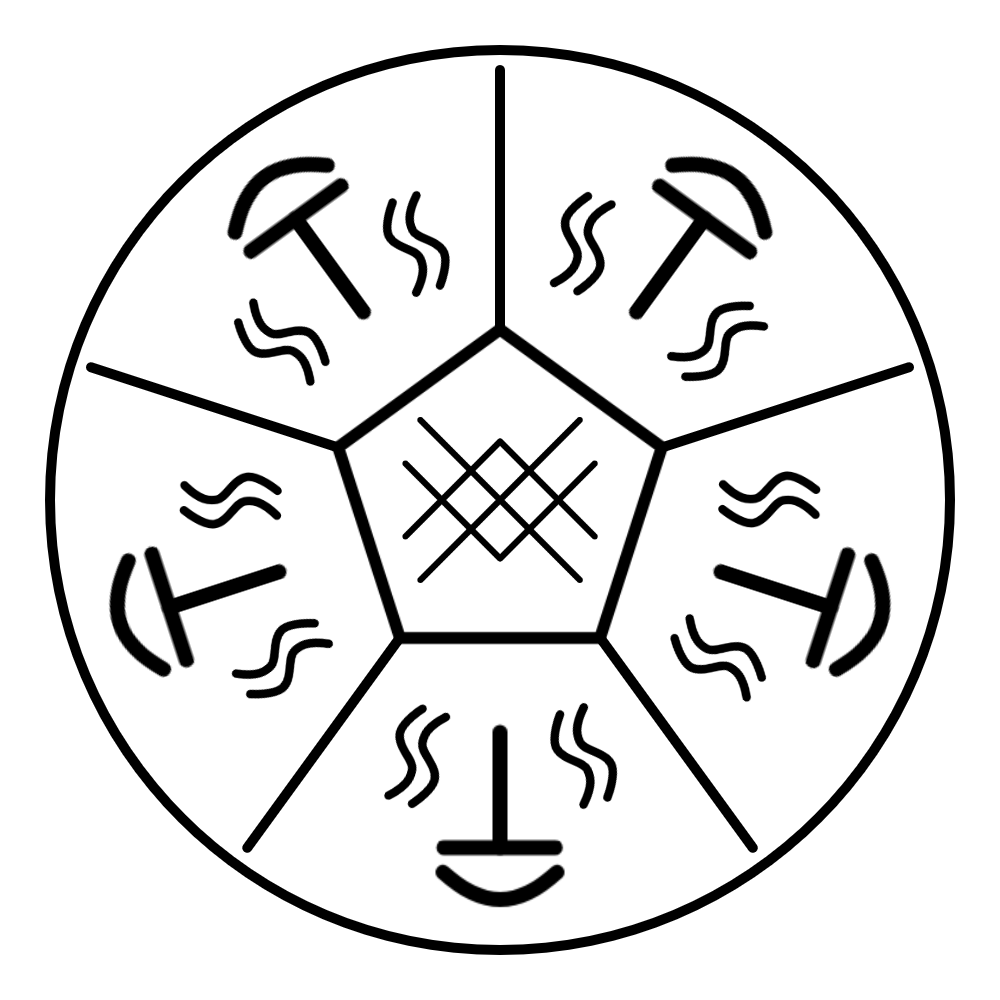
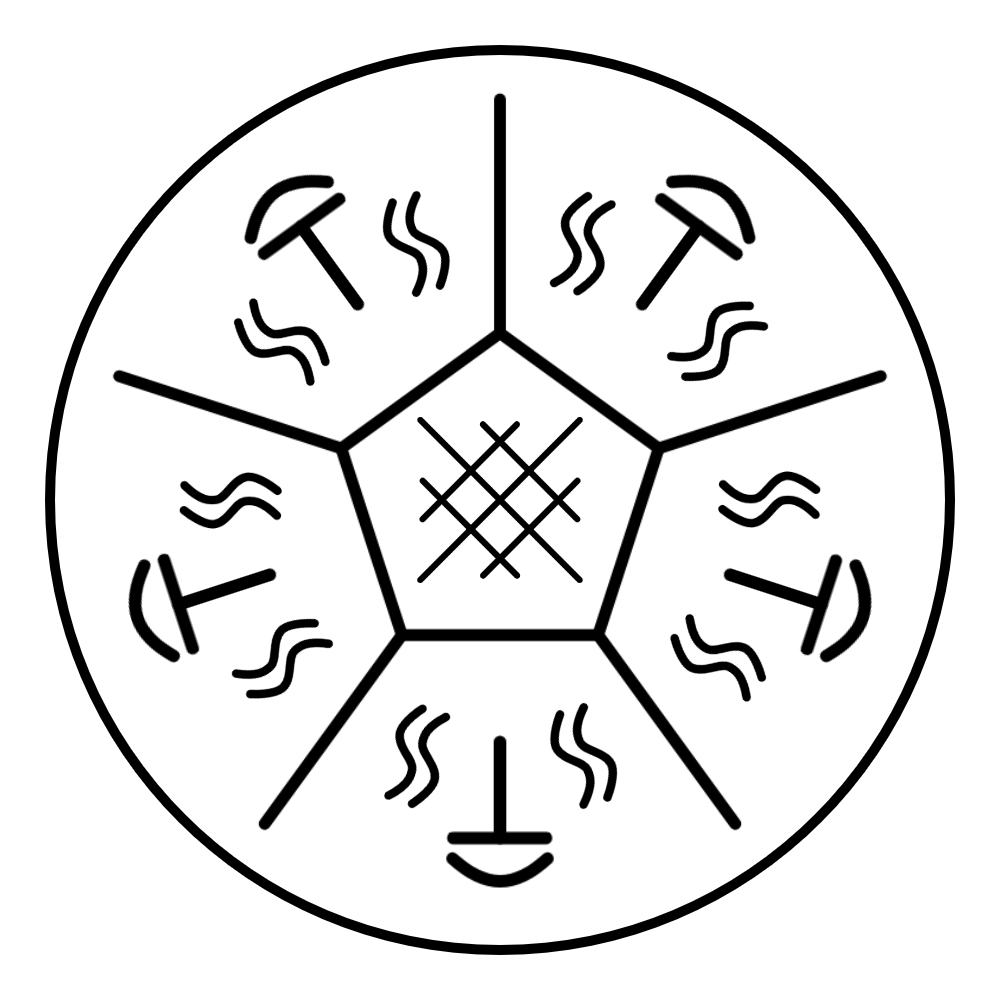
Updated examples

diff --git a/README.md b/README.md
@@ -30,7 +30,7 @@ You can click the links below to instantly open the spell into the editor:
 
 <img src="examples/Sylph%20Shoes.png" width="500" />
 
-[Sylph Shoes](https://wha-spell-maker.daviamsilva.dev?spell=XVLBihsxDP0VMacWhqQs7CW30ksL7SktOTRLUGaUsVivPNjKDOmSf6_kSbdNGfDYftLTk_xeG8EXajbN9hLHANuQqDRt01PpMo_KSQz7HghKxYvjUAgjdEkUWQogdCSa7Wpm6eEsPeVTSgqFB47wDmHCzCgK6QRqVDWsgu-hnHNOntLD8QIogFEpCyrLACOqHzzPqk2UB5KOLKqHSBMruj5nkrKCbYIT5hZYIWCBJPECRyLDffG4fzpw8RlrfwXmwF2wwjHNVd-5UAY1uphQAY9pono_VKW1_MnI50BCk4capnO6UWO2Uzp3wVrSNJCheQV1hD42LnDkQp1S35oqMrHx5PIITURJkdpawdkr88JaGd_4FmB5hZcxknpdl9YpT2indmnHh3jf0WW1l71s0zl3tIEvNviRbLHH2bFahc_W8UelyJaw42feS1Ady2a9nh0PaEOv6Mp-ltszroTU0GdeVw8dqocOW1NnRnKRpdn8fG2yiVl2N8d9M_c01yeLcSvcQfXmsHOf_PhjJyfjX4Y-Pn64Zcn_SXL49NcnzbW9x76-eca4crptNw8P1yf7fgM)
+[Sylph Shoes](https://wha-spell-maker.daviamsilva.dev?spell=XVJBjtswDPwKoVMLGEmxwF58K3ppse3JLXJogoCRaYtYhTQkOka6yN8Lyem224shazjDITUvTvBMrnXdNU4BuqCUXeNwtqDJte4Jz3om6AInDHhG17iesk88Gau41n0PBLlyc-FCJozgVQxZMiB4EksYYWHpYZae0qBqkHnkCO8QLpgYxUAHsEBrWQXfQ55T0kLp4XQFFMBolASNZYQJrfwUnle5UBpJPAFKD5EubFj8FSXJG-gUBkwNsEHADCrxCicigVw-pe6fCYr5hHW-DEtgHwBj1KX6mzMlMIUhKhrgSS9U78fqtLYf4hWWQEKXUhoIbNG7NCYC09kH6sF0JAuUNlBXWNbGGU6cyRv1DagQBIxDsUfoA2SN1NQORb0qr6pV8VVvBdZXOE-RrPQt1rzxBY1ys45Tlvh2outmL3vpdE6eWvgiPU0kPYnBjs0H-IwGH40iU4IdP_NegtmU2-12KXhAwxXdGEWaqGfcCNl24Wfe1nwda76OHWF0jSsms2t_vrjEMq6nexq_IYu7HRpXo_AGqjfHXcnJjz9xKmL8i1z7-PjhzpL_SXL89Dcn7ta8xb6-ZsY1Lun92D483A63w-03)
 
 <br />
 
@@ -42,12 +42,12 @@ You can click the links below to instantly open the spell into the editor:
 
 <img src="examples/Washing%20Machine.png" width="500" />
 
-[Washing Machine](https://wha-spell-maker.daviamsilva.dev?spell=7VbRbuM2EPwVwk8t4Ma2ZDtnvwUG0j7kWjR3QAo0gUFLK4tniTRIyop7uH_vkFJkybETF3ePBQI4onZmh7PLpb72JM-pN-89cJMKuWYfeYRf6vV7MZlIi60VSuL9rdDG9plNianCks6VscxsKctYzjdkGMdTSlpEPGOa1kAxvlI78pAqsMR7YiUHnJUic3FGxHTFPqfCMPz5UOip4_8UiaY9M6kqDVuoSDEhWZTyrSOYhA5HWJJtNX1kEVHKIi7ZiliiChk72I5vlWarYrXKyPh9SJZAg0uKzFwThyab1vISrXIvhwvdZxHeWucOrxmuHuWj_J2erQP6OFsqCIAYF-aVIIuSxKJMRZtSGFBBiV-BJuRoXlyx-8ovI9bSsK0S0ieD6kYGxWt4HCmZoDi1pXivEkYoWO2XVfUbHhGLhabIZvtDFXJv2J6VSm8QuyasaQdKssK6TTswVOHHGeKc6zOeZap0ahyBCy7RKIx2JLO9d-GOm4MLae1TZQDkJY0oFNrUAgqYEWllTAp3XUDOpUgIPCXXOWrwUyJcoxAaS1LMVnumeSx49jM8cUSe0Req7h1YmsVwzhKsg2Q0jVVbH9YufO2TdxVexgQ2qK1KvhMciyrDSp8Zr9r3nmPWlHPYXUi83UBRU5eKEPUUmX-u8yRK58bbs3CtU-2hGCxS4OBQdJvBsdGjTK3dmvlgUJbllaY4FvYqUvlADx6EjdLfuL2xlAnSA6zm2JsZjPSXoNw8D8rqvC7z6rwuvZDll8LYpYWzy70q9LIu5lJInGdDPDO9-d9fX478R16t48TicTrs9zQYOyH-1COmJLFObW8-6ffUllyPfxL_IOC6eb6Ra8cSTEbf-g38EzmXgXflK8AcuiwNWSsSVdTtwOD6TOAt9mXTVuTow7lIkXQDh53AJ-xcrEXXEr-yfHD94JzxexxNhnWwPI6Vy1-5O0SHWJfjJeEM7vDcHXbspyXMAxcqK3J5GjgaDw_I6Wukyi7ABVhXllfj2-3hB9CERyzw6gYj33d7w3V9EdXsNVXX9plDVk01azEGQYsxPN7UHe1EnaHZWnAgCq47TJMWU1vb9JVZ1YDubLGm9O3XUI5blNO3nLuYMgy_i7JRNvwxNLNLaS6tZzi6vArvVLdLe75N3pLW6ZBx27Txeyd41EEGLeTbdv-hV6fP4XgYniGZ-omEu4g6E-mOkqNh7b8lqpjn3vyXcTUG_L84gE8tKfce8wb4gK2gbXCduL5JXElw8xuyfyFR-GHavlhe-EfHV0lrob5LRrPw_Sl9fjQvXr4wGnfDYbdZzg7ne_-1cRJX_X9qop2YGudppmcndfD6IOEWdh_k7fFwbqaeKumpsnxHVYbB_1X5z1V5-vYv) by [u/ChromaticFlare1](https://www.reddit.com/r/WitchHatAtelier/comments/1rj2wkx/washing_machine_spell_just_toss_your_clothes_in)
+[Washing Machine](https://wha-spell-maker.daviamsilva.dev?spell=7VZNb-M2EP0rA55aQBt_O2vdggBpD9kW3V0gBZqFQVMjc9YUaZBUFHeR_16QkmU5jhID2WNvtvTe4_DN8FE_mOYFspTdcSdJr-ETF5I0soTx0ktjWcqupTUF9yRuFLfhTYZOWNp6Mpql7Ias8wl4iWBKj7YwzoPbolJQ8A064OC2Ei0JrsDimowGvjIPGCk1sJJoESru0UJFKuAcZXgBXyU5IFdDebHH_0W5xR04aSoH10YYIA1C8m0QmE0CD4G07laTQCVJSBBcwwohN6XOAu2Bb42FVblaKXRxHxpyUiosSg64RQ4VedmUl1tTxHI42QSERe6Db7xRuLjX9_oPfPSBGHG-MuC2pHWAxUpcAkYjCGXEpiKHwHVWPzGl9mjbFxfwufbL0Vo72BrScTHShzIwW6MDYXROem8paTA5IBey8cub5g0XCBlZFF7tDl0oomE7qIzdgDdr9BJtIOWq9GHTgSyU8TK00wbnEuBKmSpUEwQCuOJOAj6gVrvowi13Bxdk41NtAJg8b4uiDF1TQOkQhDXOSU6xgIJrytF5qLgtvIRfcgqDgnyDGjNY7cDyjLj6FUgHoagYG9XMjjClymBrPGpPXKkdOG-2EdZtfONTdFUYnaF2odq65Q_EQRijSK8TcLHqOHtB2WLBSUOpFekNZoe-1IKl9qTi_2ad3NjCRXuuw-jUeygHx2dsdK-l91uXDgZVVV1YzDLyF8IUAzu4Iy_k79xfeVSEdiBMUaD2bjCy38fV5nEQ2kB6vSzqk7yMhSy_l84vvXFuuTOlXTbNXJJmCXPIlWPpPz_2YfCJ188FV8jS-TBhlvT6CBJPPUtYhbSWnqWzhJkthhn_Qv8iSy_b_1d6HVTGs9FT0tK_YHCZJSy0r3QsnYRVWrEO8qsk2wWOL3uAN6a0XnaQo499SMq9hM_xRQc-HPZvZzwanmzocniieYv5eyQXw6dvCXO0puN-xCfLuzCMoS2RPprtwfo5Vi9_4-EEH7Chjn1Ri8uE8SIkDUvHnR1E4rVRZaFfJo6mwwNzfso06gzeOGHWeF7fHWEPP0Fm8kyF1PIKLcWj1mpdniW1OJU6tn0RmPtudaZy3FGcPN_ULT5Qs0K7tUhoJ6mrNOsodWubn5hV3w5HW2wk4-y3ktOO5Pw1586WnEzeJdlWNvw5MotzZc7t52R0fhfe6O6xbP-YvFba0YRMu6ZN3zrBoyPmuMN83e4_7erlczgdTnpE5jGRFGk8SqQmFDs5GD9kaswjSz9M6xiIP0MEdkrZh3Qv-cCtqV1ys3BzjYWWmDx36P9m6YfJx3n3Vtvrj56ndOdBE9KjxeTtlO6P5uv9503r7nh2PCy94fw5fuqwFjwZ9sXYC1HxjDvvzeTx6ZG5ofjd3w2CvvR8qXkvNeAd_g_H__vP-v3_9vQf) by [u/ChromaticFlare1](https://www.reddit.com/r/WitchHatAtelier/comments/1rj2wkx/washing_machine_spell_just_toss_your_clothes_in)
 
 <br />
 
 <img src="examples/Crystal Petals Path.png" width="500" />
 
-[Crystal Petals Path](https://wha-spell-maker.daviamsilva.dev?spell=jVJNj9MwEP0rls8lykfTND0hLYIje4ATW1VuM02sTcaR7aqUVf87M3ZaAhQJRYrsmffezDzPm0Q1gNzIJ3txXvXiGcJf-U4uZAPuYPXotUGCfOm0E26Evhd80IPulRXeCN-B-NSbs_MGIXAjbCH2Jy80Og-qEeYoWkCwymtsRa_bjnL-FgMnDrEF_QMaMXIbjpSVFzCAbUEcrRlCqRM2YBG4DF9DVWIb9Eoja4coMP_cARIAxpE0DSYv-NXdEFM5GqTVvVDYhOiR5gAb63MKxdHYkNkrBzxEUI_jxaM6UHmNYg_-DFTvscxZk2_qcDDDYBqa9wajAUP-1oCF8dQ7cjyGyd5BvcJvomYUhoydepmi97b4cYJFNO0LPlkyiobfX8T7z6-r1ZqeNXgjN9_epCUzwum6pTAbEePTUoTIbloNJtLbyE1eptfFL0ynRtg9A7nf0prcQMuqnDTxT0ncfdDUqeUh7_giTRfSqkafCJ7XdFGDOaGXm5Lixqu4hMVqXpq1PrKFd5msmstUM5ksnetka-6u17Q5obvRaPTxeJGbdyTDdfi4LNLrli8zyHeOp-ukpt4CvMiTdcUgzmSrLFlVMVPmSVk85Nd1UucBlBUVgyZ2TpRqGRLFsmLZB-x_kP-L-3d7kfxgoG34fgI) by [@Ok668](https://x.com/Okay668)
+[Crystal Petals Path](https://wha-spell-maker.daviamsilva.dev?spell=dZLBbtswDIZfhdBpBYwi6ZCs9WlAhu7YHrbTEhSMzdhEZMqQaBhp4XcfJNlBW6An0z-pjz8pvRnBjkxpdv4SFC08k6IN8IzamsLgoK3zpjRP5-323hSmplB57pWdmNL8aTlA6MlaiAF3bNGDOtCW4Ld1Y1AnlGC5rIDjoMASlLAGd4KGhDwqSwOWm1aBddEoQJVN8SvV0Gdj2qICdeQbgpN3HQxSkxeKLWLX1DFA5USRJXKTSvHs2JJAUOp7qsHJ7V7-hqVibgWBG7aAUif1ZN1IPveOKYGT8ylzxEBxgETPo-UQKwrAAkfSkUi-wIxsLWBVua5zNSotZag5vxjw1A82sJMsq4MOz_QB6npwgy5eZvVqK15MWtHtXvay84RKNRwv8PPpjJd8qWk7pvz3ZjxLk6LpUJi0iqzPjyQpL_NT4VeKZ-OnvNuspuJT2WN28m1nCeXmWvqwWc1w-cyWl18cevJx3vfowniseQimvHtYFQY7N4iaclMY7xTzW_y-_WhAYn_UK2b94z0m_iyYdUxcOev76TAdpv8) by [@Ok668](https://x.com/Okay668)
 
 </div>